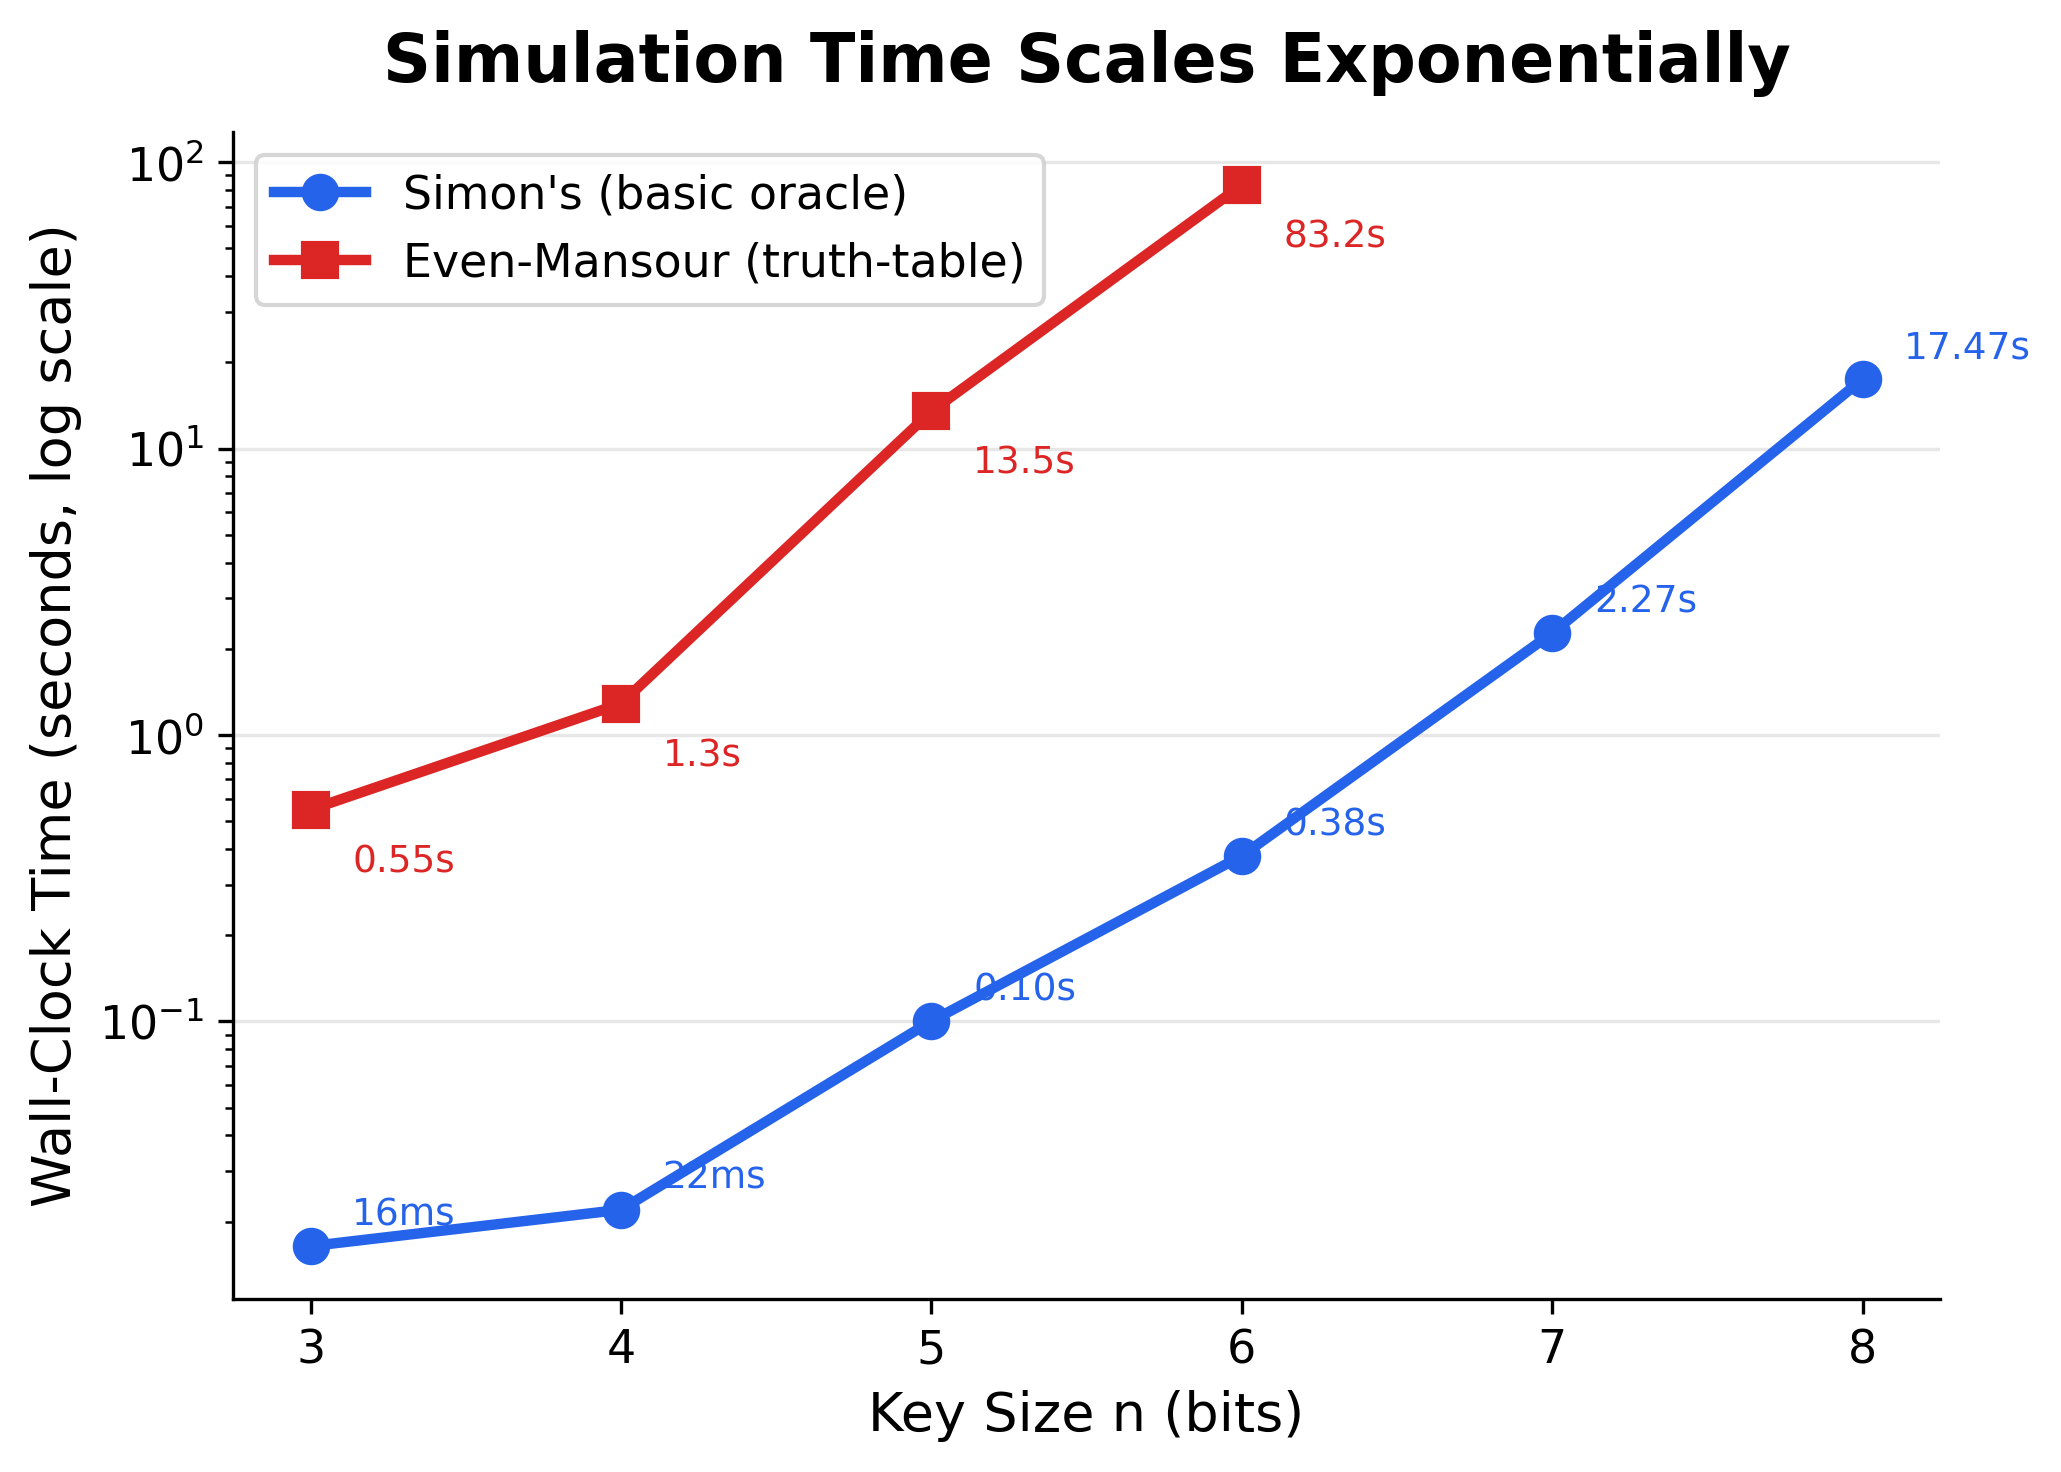
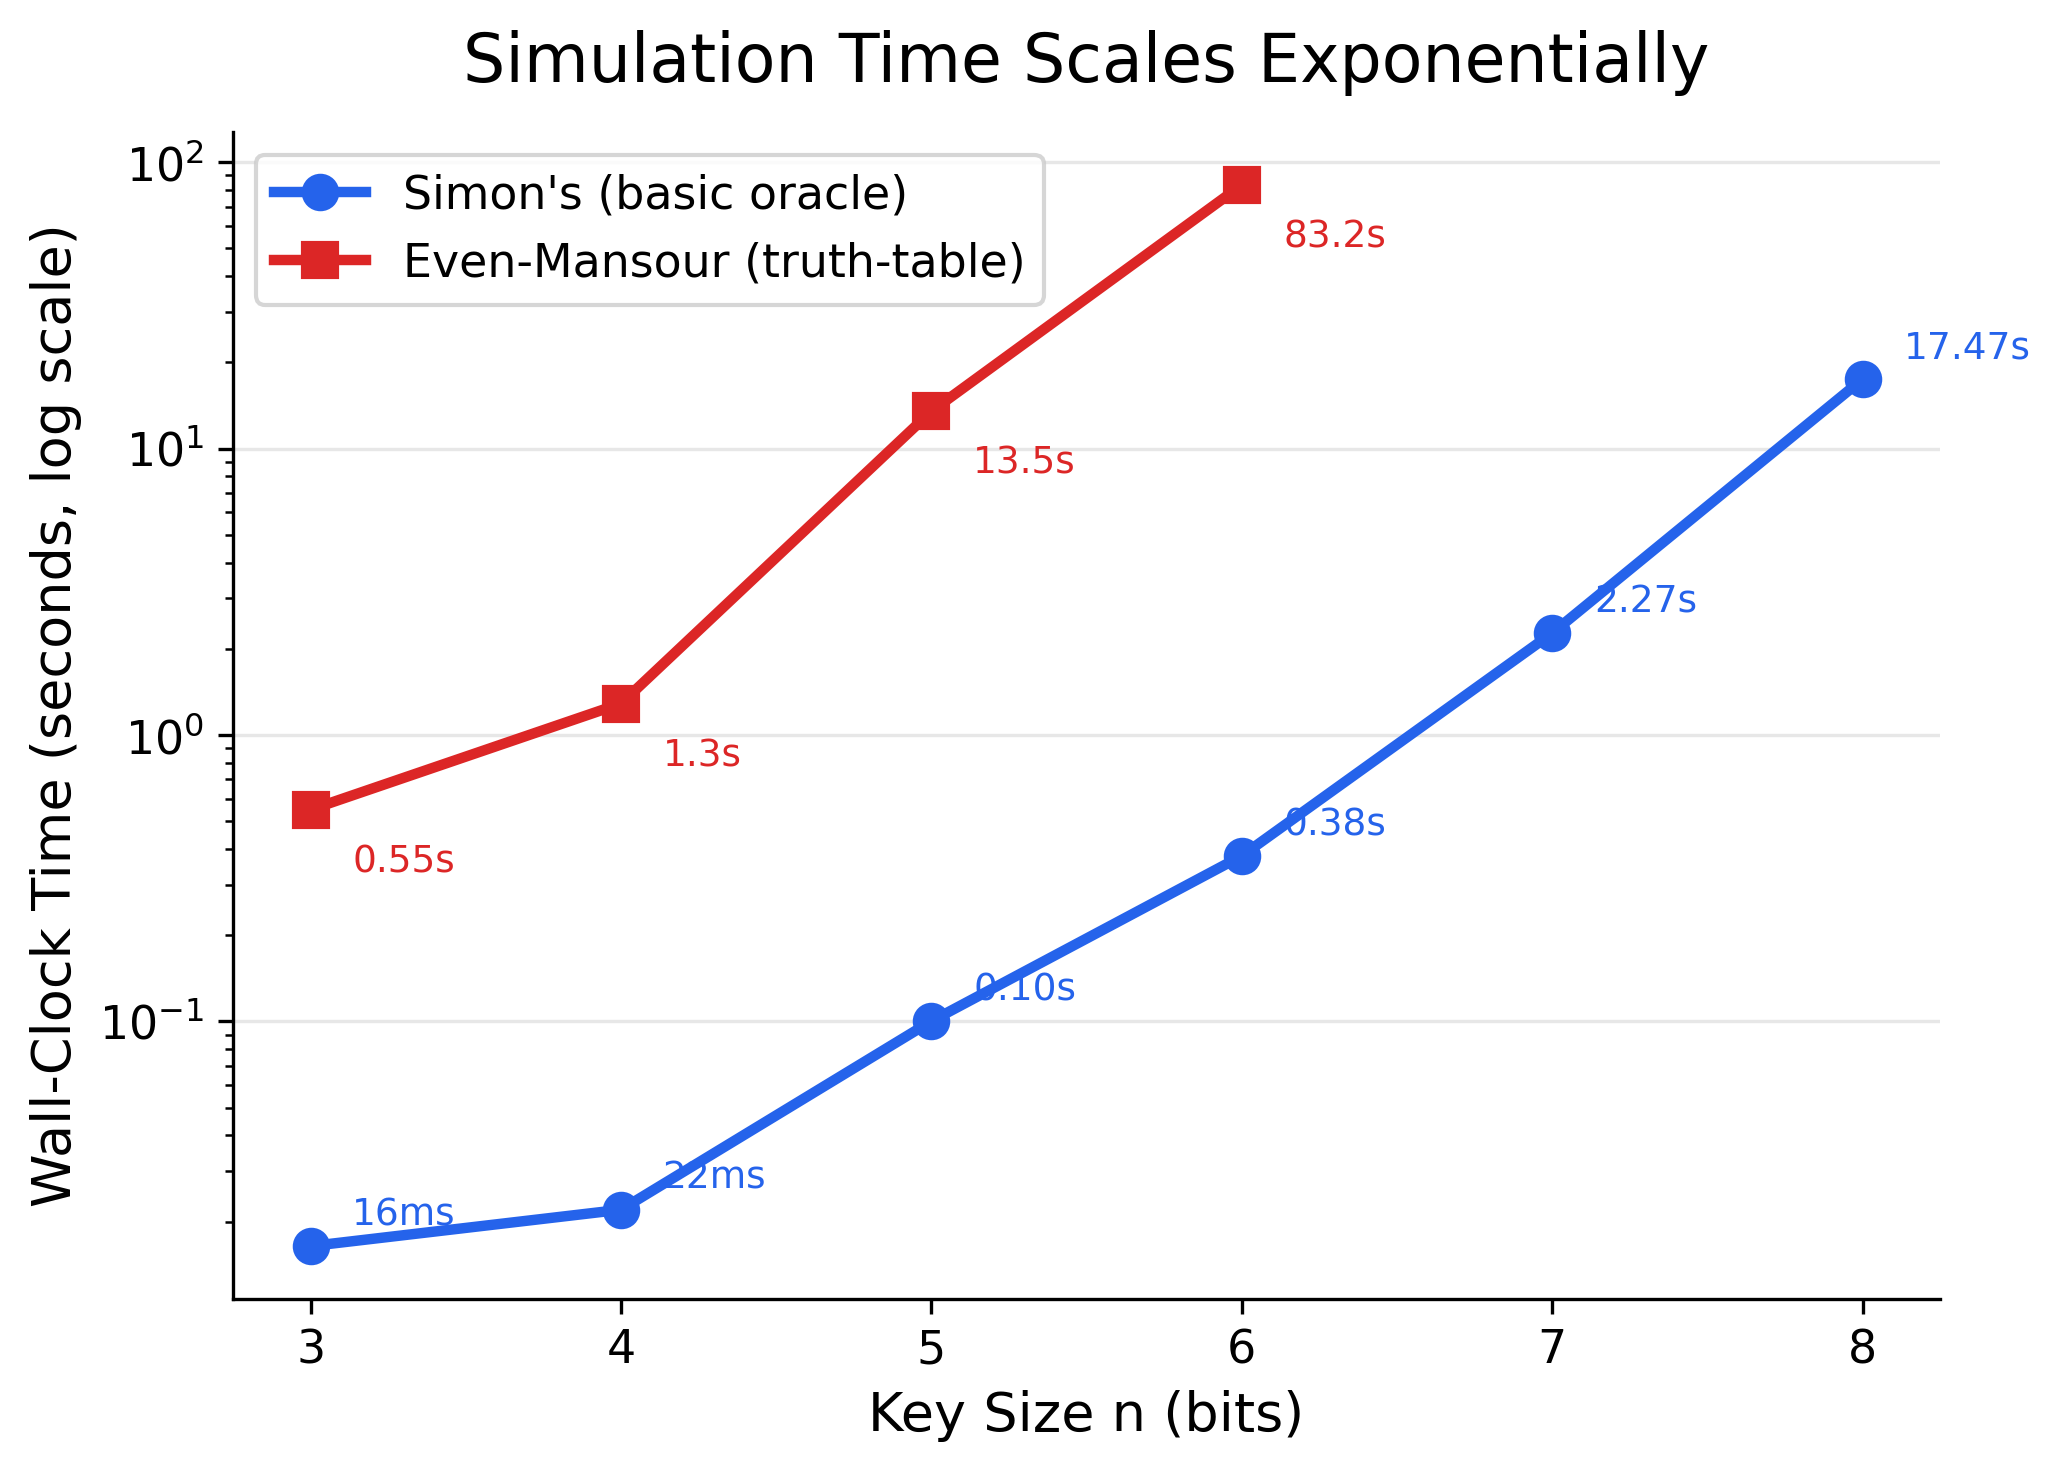
Remove bold text from all poster figures for cleaner presentation
https://claude.ai/code/session_017jT87xoW9hxJGxP6ZDqaGx

Changed region(s): [[0.1863, 0.0, 0.8695, 0.0625]]

diff --git a/generate_poster_figures.py b/generate_poster_figures.py
@@ -30,7 +30,7 @@ COLORS = {
 }
 
 def style_ax(ax, title, xlabel, ylabel):
-    ax.set_title(title, fontsize=16, fontweight="bold", pad=12)
+    ax.set_title(title, fontsize=16, pad=12)
     ax.set_xlabel(xlabel, fontsize=13)
     ax.set_ylabel(ylabel, fontsize=13)
     ax.tick_params(labelsize=11)
@@ -56,7 +56,7 @@ def fig_noise_phase_transition():
 
     ax.axvspan(30, 42, alpha=0.12, color=COLORS["red"], zorder=0)
     ax.annotate("Phase\ntransition", xy=(36, 72), fontsize=11,
-                color=COLORS["red"], ha="center", fontweight="bold")
+                color=COLORS["red"], ha="center", fontweight="normal")
 
     ax.axhline(y=50, color=COLORS["gray"], linestyle=":", linewidth=1, alpha=0.5)
     ax.text(2, 52, "Random guessing", fontsize=9, color=COLORS["gray"])
@@ -108,7 +108,7 @@ def fig_slide_round_independence():
                  xy=(50, 60), xytext=(10, 30),
                  fontsize=10, color=COLORS["blue"],
                  arrowprops=dict(arrowstyle="->", color=COLORS["blue"]),
-                 fontweight="bold")
+                 fontweight="normal")
 
     style_ax(ax2, "Attack Time vs Round Count",
              "Number of Cipher Rounds", "Execution Time (seconds)")
@@ -118,7 +118,7 @@ def fig_slide_round_independence():
     ax2.legend(fontsize=11)
 
     fig.suptitle("Quantum Slide Attack: Round Count is Irrelevant",
-                 fontsize=17, fontweight="bold", y=1.03)
+                 fontsize=17, fontweight="normal", y=1.03)
     fig.tight_layout()
     fig.savefig(OUT / "2_slide_round_independence.png", dpi=300,
                 bbox_inches="tight")
@@ -151,7 +151,7 @@ def fig_query_complexity():
 
     for i, (m, n) in enumerate(zip(means, n_vals)):
         ax.text(i - width/2, m + stds[i] + 0.3, f"{m/n:.2f}n",
-                ha="center", fontsize=9, fontweight="bold", color=COLORS["dark"])
+                ha="center", fontsize=9, fontweight="normal", color=COLORS["dark"])
 
     ax.set_xticks(x)
     ax.set_xticklabels([f"n={n}" for n in n_vals])
@@ -285,7 +285,7 @@ def fig_success_rates():
                         color=COLORS["gray"], rotation=90)
             elif v < 100:
                 ax.text(x[j] + offset, v + 2, f"{v:.0f}%", ha="center",
-                        fontsize=9, fontweight="bold")
+                        fontsize=9, fontweight="normal")
 
     ax.set_xticks(x)
     ax.set_xticklabels([f"n = {n} bits" for n in ns], fontsize=12)
@@ -321,7 +321,7 @@ def fig_simon_vs_grover():
     ax.fill_between(n_vals, simon_queries, grover_queries,
                     alpha=0.1, color=COLORS["blue"])
     ax.annotate("Exponential\ngap!",
-                xy=(64, 1e5), fontsize=13, fontweight="bold",
+                xy=(64, 1e5), fontsize=13, fontweight="normal",
                 color=COLORS["blue"], ha="center")
 
     style_ax(ax, "Simon's Algorithm vs Classical & Grover",
@@ -351,7 +351,7 @@ def fig_resource_estimates():
     for bar, q in zip(bars1, physical_qubits):
         label = f"~{q/1e6:.1f}M" if q >= 1e6 else f"~{q/1e3:.0f}K"
         ax1.text(bar.get_x() + bar.get_width()/2, bar.get_height() + 0.02,
-                 label, ha="center", fontsize=11, fontweight="bold")
+                 label, ha="center", fontsize=11, fontweight="normal")
 
     style_ax(ax1, "Physical Qubits Required",
              "", "Millions of Physical Qubits")
@@ -361,13 +361,13 @@ def fig_resource_estimates():
                     alpha=0.85, edgecolor="white", linewidth=0.5, zorder=3)
     for bar, t in zip(bars2, t_gates):
         ax2.text(bar.get_x() + bar.get_width()/2, bar.get_height() + 10,
-                 f"{t/1e6:.0f}M", ha="center", fontsize=11, fontweight="bold")
+                 f"{t/1e6:.0f}M", ha="center", fontsize=11, fontweight="normal")
 
     style_ax(ax2, "T-Gate Count",
              "", "Millions of T-Gates")
 
     fig.suptitle("Fault-Tolerant Resources for Real-World Cipher Attacks",
-                 fontsize=16, fontweight="bold", y=1.03)
+                 fontsize=16, fontweight="normal", y=1.03)
     fig.tight_layout()
     fig.savefig(OUT / "8_resource_estimates.png", dpi=300, bbox_inches="tight")
     plt.close(fig)
@@ -388,13 +388,13 @@ def fig_prince_security():
 
     for bar, b in zip(bars, bits):
         ax.text(bar.get_x() + bar.get_width()/2, bar.get_height() + 2,
-                f"{b} bits", ha="center", fontsize=13, fontweight="bold")
+                f"{b} bits", ha="center", fontsize=13, fontweight="normal")
 
     ax.annotate("", xy=(3, 40), xytext=(0, 127),
                 arrowprops=dict(arrowstyle="->,head_width=0.4",
                                 color=COLORS["red"], linewidth=2.5))
     ax.text(1.5, 88, "90-bit\nreduction!", fontsize=14,
-            fontweight="bold", color=COLORS["red"], ha="center",
+            fontweight="normal", color=COLORS["red"], ha="center",
             bbox=dict(boxstyle="round,pad=0.3", facecolor="white",
                       edgecolor=COLORS["red"], alpha=0.9))
 
@@ -423,7 +423,7 @@ def fig_attack_overview():
                         edgecolor=COLORS["green"], linewidth=2)
 
     ax.text(5, 5.5, "Simon's Algorithm", fontsize=18, ha="center",
-            fontweight="bold", color=COLORS["dark"],
+            fontweight="normal", color=COLORS["dark"],
             bbox=dict(boxstyle="round,pad=0.6", facecolor="#DBEAFE",
                       edgecolor=COLORS["blue"], linewidth=3))
 
@@ -452,7 +452,7 @@ def fig_attack_overview():
                 bbox=result_style, family="monospace")
 
     ax.text(5, 0.5, "All recover the secret key in O(n) quantum queries",
-            fontsize=14, ha="center", fontweight="bold", color=COLORS["blue"],
+            fontsize=14, ha="center", fontweight="normal", color=COLORS["blue"],
             bbox=dict(boxstyle="round,pad=0.4", facecolor="white",
                       edgecolor=COLORS["blue"], linewidth=2, alpha=0.9))
 
